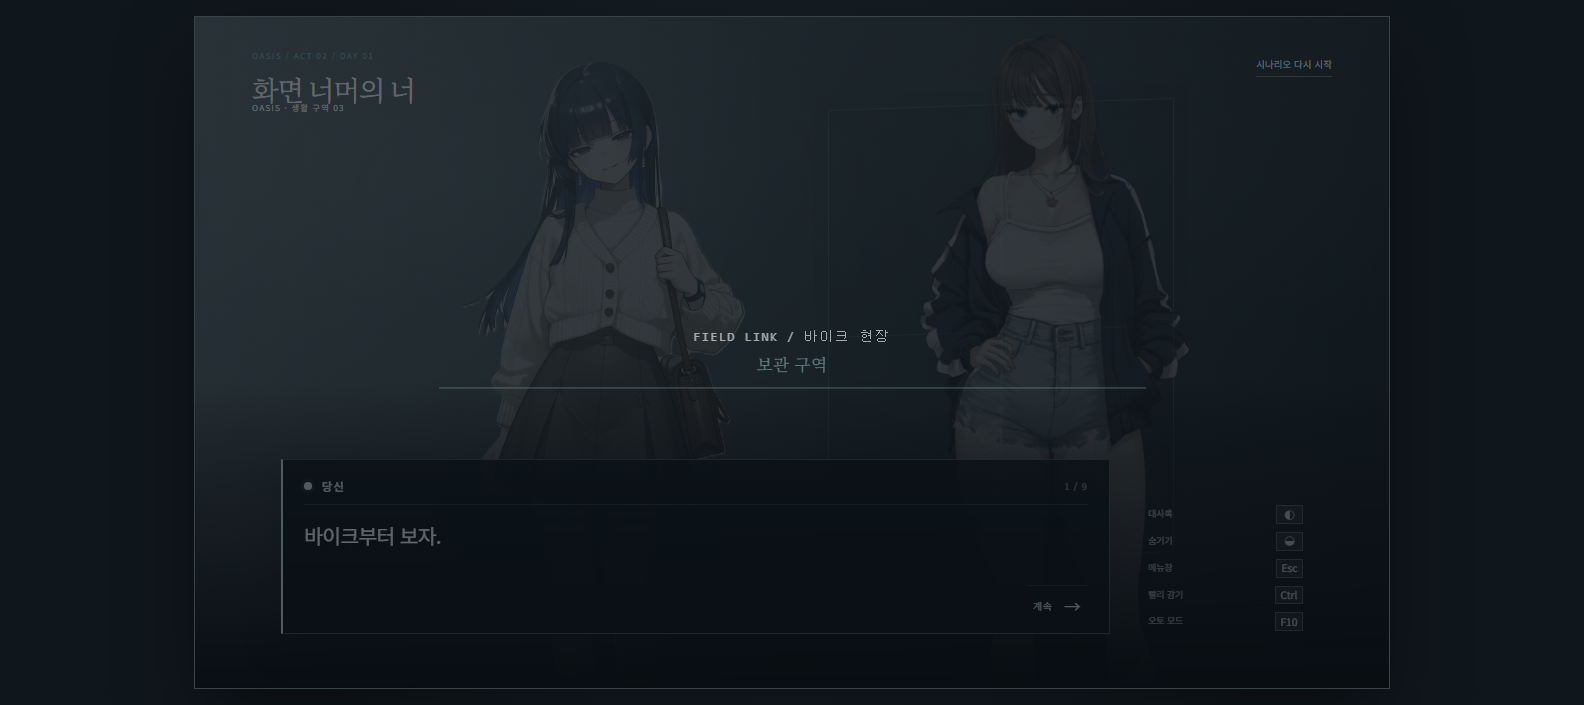
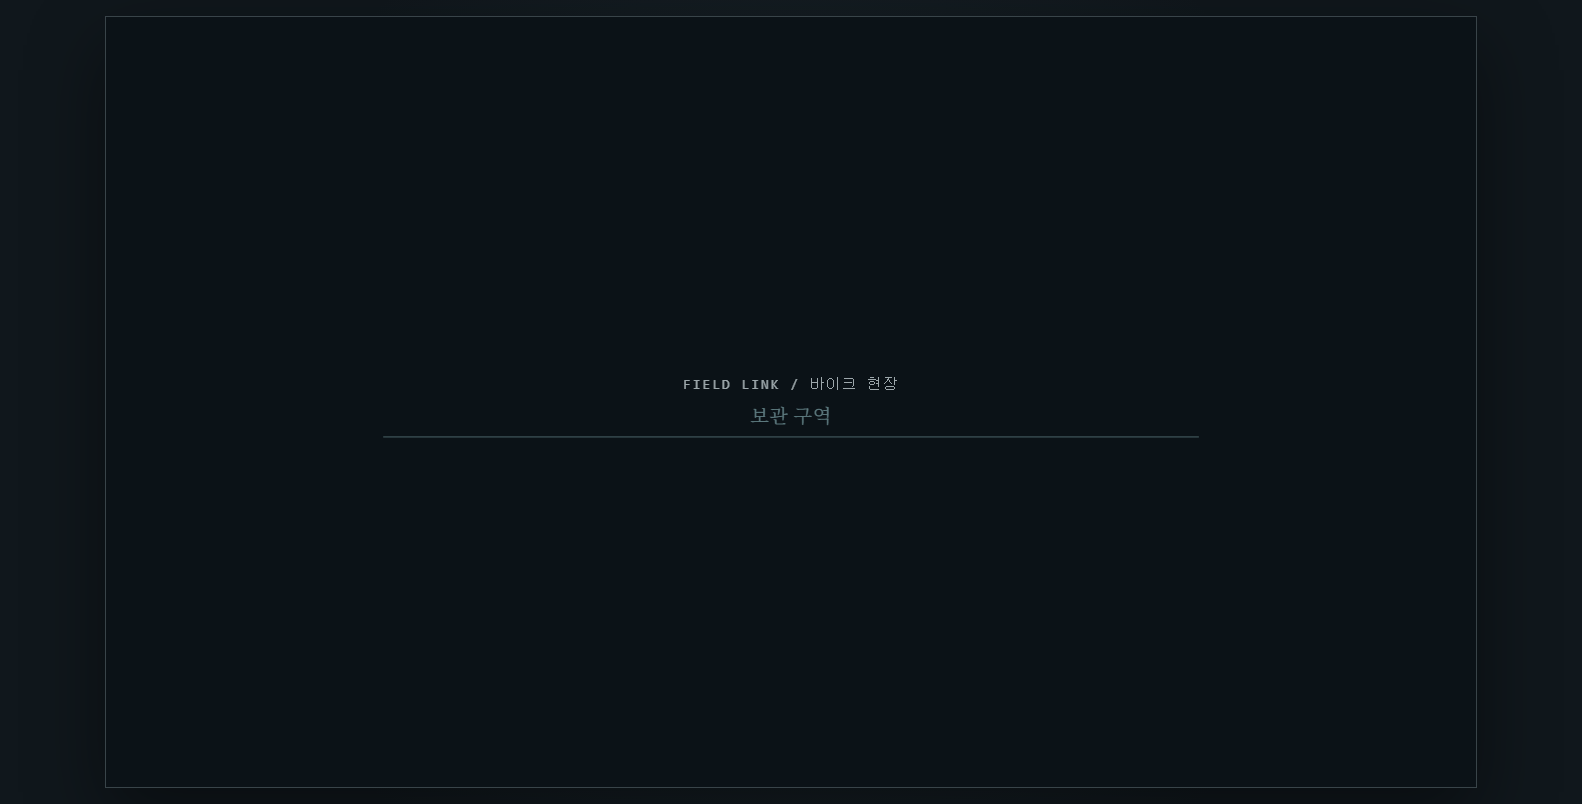
feat: rename presentation transition phases

diff --git a/src/App.tsx b/src/App.tsx
@@ -10,7 +10,7 @@ import type { EvidenceId, ProposalId } from "./types/game";
 type PresentationTransition =
   | {
       kind: "report-to-vn";
-      phase: "emphasis" | "field-link" | "vn-reveal";
+      phase: "cover" | "field-link" | "reveal";
       proposalId: ProposalId;
       evidenceIds: EvidenceId[];
       accepted: boolean;
@@ -19,7 +19,7 @@ type PresentationTransition =
     }
   | {
       kind: "vn-to-report";
-      phase: "hold" | "field-log" | "report-reveal";
+      phase: "cover" | "field-log" | "reveal";
       proposalId: ProposalId;
       label: string;
       location: string;
@@ -55,27 +55,27 @@ export default function App() {
   useEffect(() => {
     if (!transition) return undefined;
     const reducedMotion = window.matchMedia("(prefers-reduced-motion: reduce)").matches;
-    let duration = reducedMotion ? 100 : 300;
+    let duration = reducedMotion ? 100 : 280;
 
     if (transition.kind === "report-to-vn") {
-      if (transition.phase === "emphasis") {
-        duration = transition.accepted ? (reducedMotion ? 80 : 300) : (reducedMotion ? 60 : 160);
+      if (transition.phase === "cover") {
+        duration = reducedMotion ? 100 : 300;
       } else if (transition.phase === "field-link") {
-        duration = reducedMotion ? 90 : 220;
+        duration = reducedMotion ? 160 : 420;
       } else {
-        duration = reducedMotion ? 130 : 340;
+        duration = reducedMotion ? 100 : 280;
       }
-    } else if (transition.phase === "hold") {
-      duration = reducedMotion ? 70 : 170;
+    } else if (transition.phase === "cover") {
+      duration = reducedMotion ? 100 : 300;
     } else if (transition.phase === "field-log") {
-      duration = reducedMotion ? 100 : 260;
+      duration = reducedMotion ? 160 : 420;
     } else {
-      duration = reducedMotion ? 130 : 340;
+      duration = reducedMotion ? 100 : 280;
     }
 
     const timer = window.setTimeout(() => {
       if (transition.kind === "report-to-vn") {
-        if (transition.phase === "emphasis") {
+        if (transition.phase === "cover") {
           dispatch({
             type: "PROPOSE_ACTION",
             proposalId: transition.proposalId,
@@ -85,23 +85,23 @@ export default function App() {
             if (!current || current.kind !== "report-to-vn") return current;
             return {
               ...current,
-              phase: transition.accepted ? "field-link" : "vn-reveal",
+              phase: "field-link",
             };
           });
         } else if (transition.phase === "field-link") {
           setTransition((current) => {
             if (!current || current.kind !== "report-to-vn") return current;
-            return { ...current, phase: "vn-reveal" };
+            return { ...current, phase: "reveal" };
           });
         } else {
           setTransition(null);
         }
-      } else if (transition.phase === "hold") {
+      } else if (transition.phase === "cover") {
         dispatch({ type: "ADVANCE_DIALOGUE" });
         setHighlightedRoute(transition.proposalId);
         setTransition({ ...transition, phase: "field-log" });
       } else if (transition.phase === "field-log") {
-        setTransition({ ...transition, phase: "report-reveal" });
+        setTransition({ ...transition, phase: "reveal" });
       } else {
         setTransition(null);
       }
@@ -127,7 +127,7 @@ export default function App() {
     const reaction = getProposalReaction(state, proposalId, evidenceIds);
     setTransition({
       kind: "report-to-vn",
-      phase: "emphasis",
+      phase: "cover",
       proposalId,
       evidenceIds,
       accepted: reaction.outcome === "accepted",
@@ -147,7 +147,7 @@ export default function App() {
     const route = getFieldRouteContent(state.pendingFieldVisit);
     setTransition({
       kind: "vn-to-report",
-      phase: "hold",
+      phase: "cover",
       proposalId: state.pendingFieldVisit,
       label: route.fieldLogUpdatedLabel,
       location: route.location,

diff --git a/src/styles/global.css b/src/styles/global.css
@@ -6057,7 +6057,7 @@ body {
   transition: opacity 260ms ease, filter 260ms ease, transform 260ms ease;
 }
 
-.game-screen.presentation-report-to-vn-emphasis > .report-shell {
+.game-screen.presentation-report-to-vn-cover > .report-shell {
   opacity: 0.62;
   filter: blur(2px);
   transform: scale(0.985);
@@ -6072,28 +6072,24 @@ body {
   justify-items: center;
   gap: 0.45rem;
   color: #dce7ea;
-  background: rgba(11, 18, 23, 0.92);
+  background: #0b1217;
   font-family: "IBM Plex Mono", "SFMono-Regular", Consolas, monospace;
   pointer-events: auto;
   text-align: center;
   transition: opacity 240ms ease, background-color 240ms ease;
 }
 
-.presentation-transition--emphasis,
-.presentation-transition--hold {
-  background: rgba(11, 18, 23, 0.34);
+.presentation-transition--cover {
+  background: #0b1217;
 }
 
-.presentation-transition--emphasis .presentation-transition-label,
-.presentation-transition--emphasis .presentation-transition-location,
-.presentation-transition--hold .presentation-transition-label,
-.presentation-transition--hold .presentation-transition-location {
+.presentation-transition--cover .presentation-transition-label,
+.presentation-transition--cover .presentation-transition-location {
   opacity: 0;
 }
 
-.presentation-transition--vn-reveal,
-.presentation-transition--report-reveal {
-  background: rgba(11, 18, 23, 0.08);
+.presentation-transition--reveal {
+  background: #0b1217;
   opacity: 0;
   pointer-events: none;
 }
@@ -6211,7 +6207,7 @@ body {
     transition: none;
   }
 
-  .game-screen.presentation-report-to-vn-emphasis > .report-shell {
+  .game-screen.presentation-report-to-vn-cover > .report-shell {
     opacity: 0.72;
     filter: none;
     transform: none;
